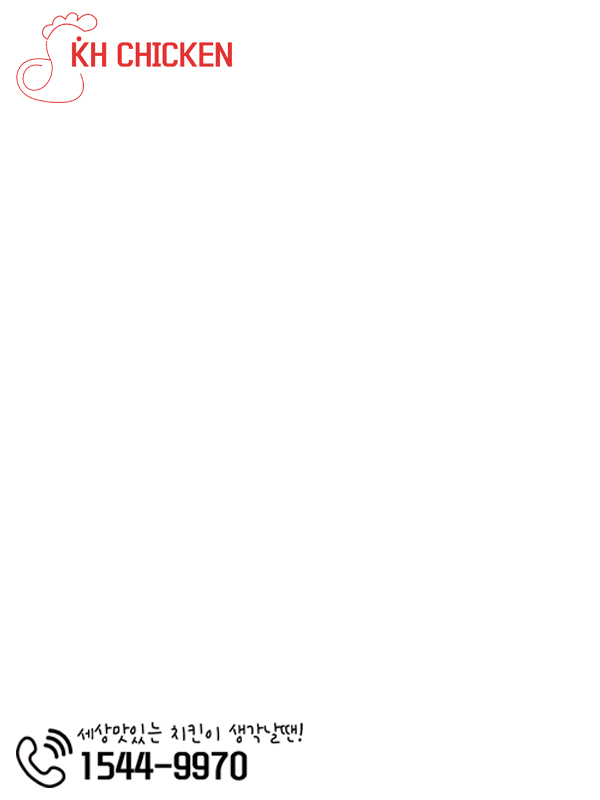
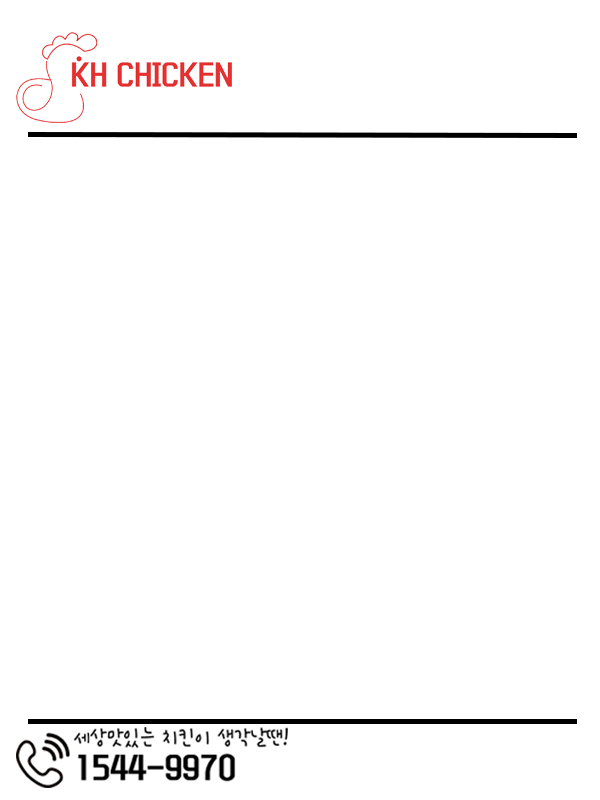
메인디자인작업1

Changed region(s): [[0.03, 0.875, 0.96, 1.0], [0.03, 0.0, 0.96, 0.1875]]

diff --git a/khChicken_client/src/client/view/MainView.java b/khChicken_client/src/client/view/MainView.java
@@ -5,6 +5,7 @@ import java.awt.Dimension;
 import java.awt.Font;
 import java.awt.Graphics;
 import java.awt.Image;
+import java.awt.Toolkit;
 import java.awt.event.ActionEvent;
 import java.awt.event.ActionListener;
 import java.awt.event.ItemEvent;
@@ -26,7 +27,7 @@ import javax.swing.JPanel;
 import javax.swing.JScrollPane;
 import javax.swing.ScrollPaneConstants;
 
-import com.sun.javafx.tk.Toolkit;
+
 
 import client.controller.MemberController;
 import client.controller.MenuController;
@@ -65,9 +66,10 @@ public class MainView extends JFrame implements ItemListener,ActionListener {
 	public MainView() {
 		super("KH CHICKEN");
 		getContentPane().setLayout(null);
-
-
-
+		
+		Toolkit tk = Toolkit.getDefaultToolkit();		
+		img = tk.getImage("mainView.jpg");
+		
 		// 버튼글씨
 		String loginStr = "로그인";		
 
@@ -76,17 +78,17 @@ public class MainView extends JFrame implements ItemListener,ActionListener {
 		btn_Login.setBounds(370, 50, 97, 30);
 		btn_Login.setFont(new Font("다음_Regular", Font.PLAIN, 14));
 		btn_Login.addActionListener(this);
-		btn_Register = new JButton("회원가입");
-		btn_Register.setBounds(479, 50, 97, 30);
+		btn_Register = new JButton(new ImageIcon("signBtn.jpg"));
+		btn_Register.setBounds(470, 50, 97, 40);
 		btn_Register.setFont(new Font("다음_Regular", Font.PLAIN, 14));
 		btn_Register.addActionListener(this);
 
-		btn_Order = new JButton("주문하기");
+		btn_Order = new JButton(new ImageIcon("orderBtn.jpg"));
 		btn_Order.setBounds(475, 700, 97, 55);
 		btn_Order.setFont(new Font("다음_Regular", Font.PLAIN, 15));
 		btn_Order.addActionListener(this);
 
-		btn_Manage = new JButton("관리");
+		btn_Manage = new JButton(new ImageIcon("manageBtn.jpg"));
 		btn_Manage.setBounds(370, 700, 90, 54);
 		//btn_Manage.setVisible(false);
 		btn_Manage.setFont(new Font("다음_Regular", Font.PLAIN, 15));
@@ -98,7 +100,7 @@ public class MainView extends JFrame implements ItemListener,ActionListener {
 
 		// 메뉴들을 넣을 큰 패널 설정
 		JPanel panel_bigmenu = new JPanel();
-		panel_bigmenu.setBounds(10, 100, 570, 600);
+		panel_bigmenu.setBounds(0, 100, 580, 600);
 		panel_bigmenu.setBackground(new Color(255, 255, 255));
 		panel_bigmenu.setLayout(new MigLayout("wrap", "", ""));
 
@@ -134,30 +136,29 @@ public class MainView extends JFrame implements ItemListener,ActionListener {
 		getContentPane().add(btn_Manage);
 		getContentPane().add(panel_bigmenu);
 		getContentPane().setBackground(new Color(255, 255, 255));
+		
+
 		setBounds(400, 0, 600, 800);
-		
-		
-		
 		setVisible(true);
 		setDefaultCloseOperation(EXIT_ON_CLOSE);
 
 	}
-/*	
-	//배경삽입
 	@Override
 	public void paint(Graphics g) {
 		// TODO Auto-generated method stub
 		super.paint(g);
-		
 		if (img == null) {
 			return;
 		}
 		
 		int imgWidth = img.getWidth(this);
-		int imgHeight = img.getHeight(this);
+		int imgHeight = img.getHeight(this);//가져온 이미지의 높이와 넓이를 취득
+		
 		//이미지를 프레임 중앙에 출력
 		g.drawImage(img, (getWidth()-imgWidth)/2, (getHeight()-imgHeight)/2, this);
-	}*/
+		
+		
+	}
 	
 	
 
@@ -267,6 +268,7 @@ public class MainView extends JFrame implements ItemListener,ActionListener {
 			memCtrl.AccountView(this);
 		} else if (o == btn_Order) { // 주문하기
 			System.out.println(checkedMenu);
+			
 			// orderMenuDto에 선택한 메뉴 이름, 타입, 가격 넣어서 넘겨주기 
 			OrderController ordCtrl = Singleton.getInstance().getOrderCtrl();
 			
